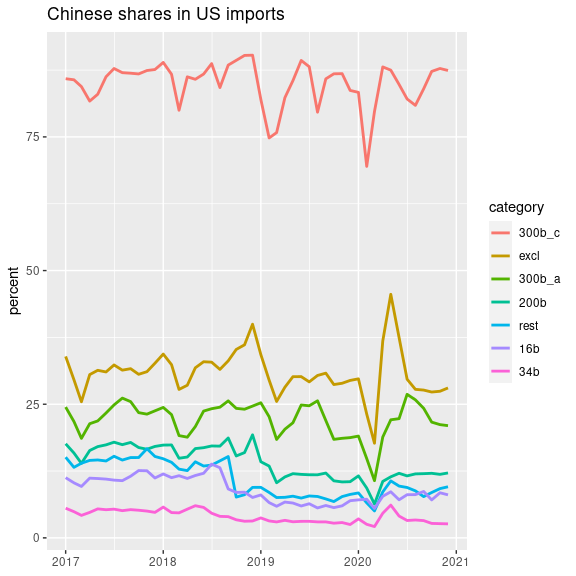
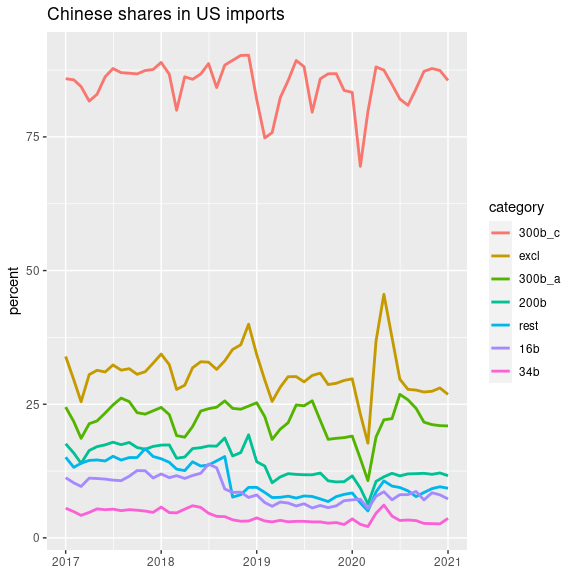
update January 2021

diff --git a/README.md b/README.md
@@ -14,7 +14,7 @@ Mitsuo Shiota
 -   [Look at the Chinese share
     movements](#look-at-the-chinese-share-movements)
 
-Updated: 2021-02-06
+Updated: 2021-03-06
 
 I separated the codes of extracting HTS from USTR site to [another
 page](Extract-hts-from-USTR.md).
